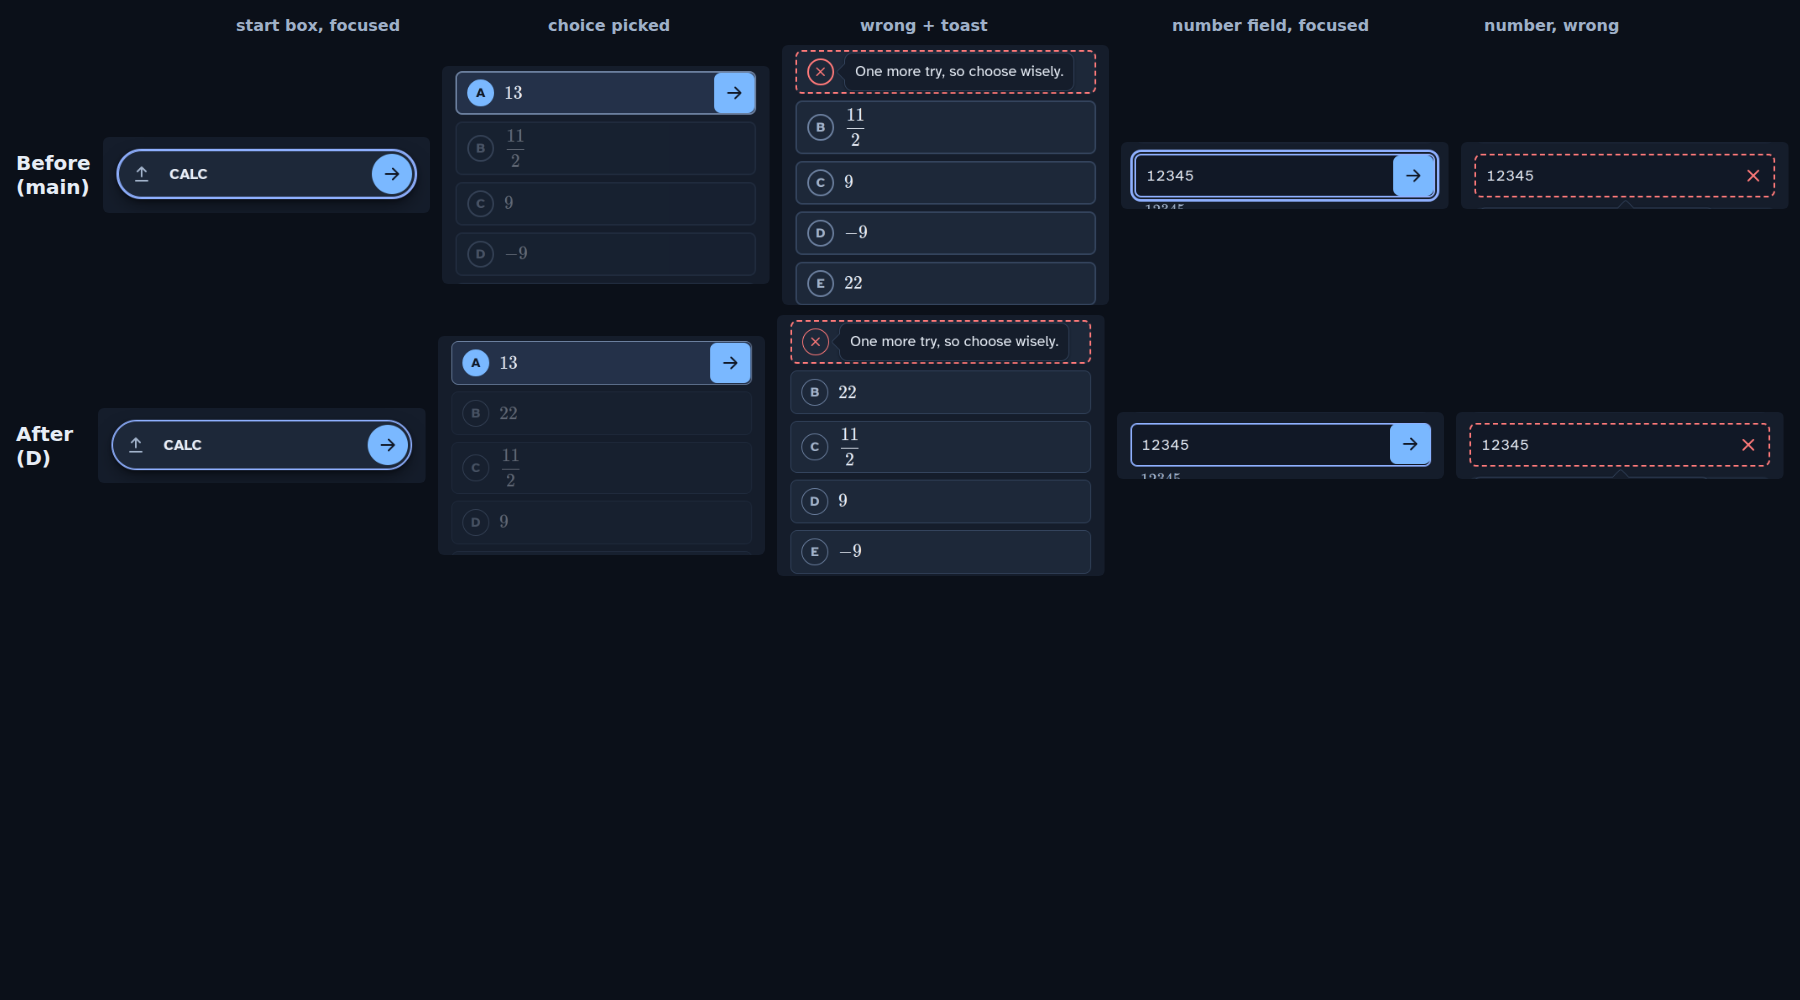
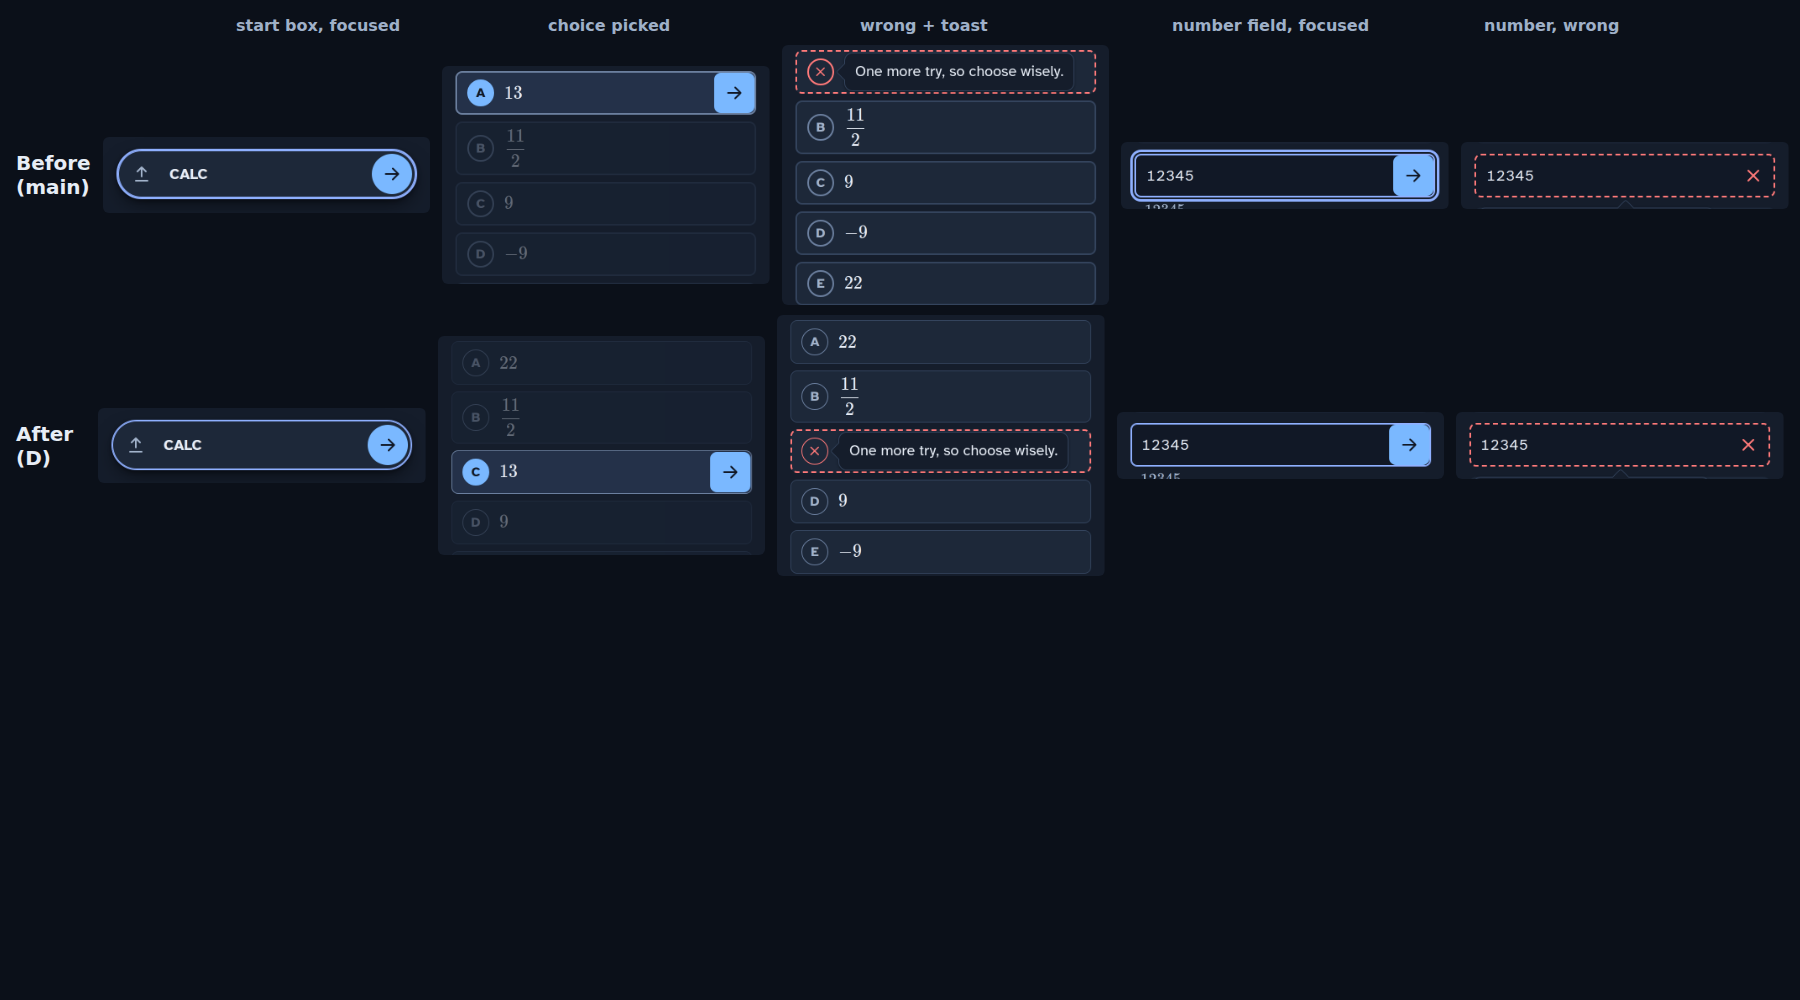
Borders: a wrong border never moves what is inside
The 2px wrong edge pushed the verdict x and the input 1px. --bw-up
(alarm minus base) comes back out of padding and the arrow / x offsets.
polish.pw: focused scratchpad now expects the 2px edge (border + inset).
Full run-all.sh: ALL GREEN.

Claude-Session: https://claude.ai/code/session_0133SdcyKFzp2WnequjmrzHe

Changed region(s): [[0.2489, 0.31, 0.5911, 0.496]]

diff --git a/app.css b/app.css
@@ -16,6 +16,7 @@
   --gut: max(1.25rem, env(safe-area-inset-left), env(safe-area-inset-right));
   /* size tokens: button, the fields that hold one (button + 2 x 2px border), its icon, the column. Desktop raises them (see the end of this file) */
   --bw: 1px; --bw-alarm: 2px; --ring: 2px;   /* borders (STYLE.md 2.6): one line weight; only a wrong answer is heavier; one keyboard ring */
+  --bw-up: calc(var(--bw-alarm) - var(--bw));   /* what a wrong border adds: taken back from the padding / offsets, so nothing inside moves */
   --btn: 48px; --fld: calc(var(--btn) + 4px); --ico: 24px; --col: 52rem;
   /* elevation: two-part shadow, tighter part fades as the layer rises (Refactoring UI, "Creating depth") */
   --shadow-1: 0 1px 2px rgb(0 0 0 / 0.45);
@@ -256,7 +257,7 @@ main { max-width: var(--col); margin: 0 auto; padding: var(--s5) var(--gut) var(
 html:has(.q:not(.closed) .choices:not(.all) .opt[aria-checked="true"]) :is(#work, #fb) { filter: brightness(.55); }
 html:has(.q:not(.closed) .choices:not(.all) .opt[aria-checked="true"]) :is(#dock, #more) { visibility: hidden; }
 .ch, .top, #problem, #work, #fb { transition: opacity .25s ease-out, filter .3s ease-out; }
-.opt.wrong { border: var(--bw-alarm) dashed var(--bad); color: var(--muted); }
+.opt.wrong { border: var(--bw-alarm) dashed var(--bad); color: var(--muted); padding: calc(var(--s2) - var(--bw-up)) calc(var(--btn) + 8px - var(--bw-up)) calc(var(--s2) - var(--bw-up)) calc(var(--s3) - var(--bw-up)); }
 .opt.wrong .txt { text-decoration: line-through; text-decoration-color: var(--bad); text-decoration-thickness: 2px; }
 .opt.wrong .badge { border-color: var(--bad); color: var(--bad); }
 .opt.right { border-color: var(--ok); background: var(--raised); }
@@ -292,7 +293,7 @@ html:has(.q:not(.closed) .choices:not(.all) .opt[aria-checked="true"]) :is(#dock
 .choices.inline .opt.right .badge { display: grid; position: absolute; right: 8px; top: 50%; margin-top: -1rem; background: none; border-color: transparent; color: var(--ok); }
 
 .ff {
-  position: relative; display: flex; align-items: center; height: var(--fld); padding-left: var(--s3); padding-right: var(--btn);   /* the arrow's room is always reserved */
+  position: relative; display: flex; align-items: center; height: var(--fld); padding-left: var(--s3); padding-right: calc(var(--btn) + var(--bw-up));   /* the arrow's room is always reserved (it sits --bw-up inside the border) */
   background: var(--field); border: var(--bw) solid var(--edge); border-radius: 8px;
 }
 .ff:hover { border-color: var(--muted); }
@@ -330,9 +331,9 @@ html:has(.q:not(.closed) .choices:not(.all) .opt[aria-checked="true"]) :is(#dock
 .mparts .mk { grid-area: mk; font-weight: 700; color: var(--c1); }
 .mparts .pr { grid-area: pr; min-width: 0; overflow-wrap: anywhere; }
 .mparts .ff { grid-area: bx; }
-.ff .send { position: absolute; right: 0; top: 0; }                    /* flush inside the border (48px in a 52px box with 2px borders): nothing jumps when it appears */
+.ff .send { position: absolute; right: var(--bw-up); top: var(--bw-up); }   /* 48px centred in the 52px box, 2px from the outer edge with either border: nothing jumps */
 /* the verdict icon in the arrow's slot (app.js vmark): right, wrong with a try left, out of tries */
-.ff .vk { position: absolute; right: 0; top: 0; width: var(--btn); height: var(--btn); display: grid; place-items: center; pointer-events: none; }
+.ff .vk { position: absolute; right: var(--bw-up); top: var(--bw-up); width: var(--btn); height: var(--btn); display: grid; place-items: center; pointer-events: none; }
 .ff .vk .ico { width: var(--ico); height: var(--ico); }
 .ff .vk[data-v="i-ok"] { color: var(--ok); }
 .ff .vk[data-v="i-x"] { color: var(--bad); }
@@ -346,7 +347,8 @@ html:has(.q:not(.closed) .choices:not(.all) .opt[aria-checked="true"]) :is(#dock
   .mparts .part.nopr.hinted { grid-template-areas: "mk bx bx" ". ht ht"; }
   .mparts .mk, .mparts .pr { padding-top: var(--s3); }   /* first text line centred on the 52px box */
 }
-.ff.bad { border: var(--bw-alarm) dashed var(--bad); }
+.ff.bad { border: var(--bw-alarm) dashed var(--bad); padding-left: calc(var(--s3) - var(--bw-up)); padding-right: var(--btn); }
+.ff.bad :is(.send, .vk) { right: 0; top: 0; }
 /* one part closed (right, or out of tries) while the others stay live: the same disabled look as a closed question (.q.closed) */
 .ff.shut, .ff.shut input { cursor: not-allowed; }
 .ff.shut { opacity: 0.5; }   /* right ones too: closed = looks disabled */

diff --git a/design/STYLE.md b/design/STYLE.md
@@ -120,6 +120,7 @@ One weight, one focus rule, one ring (Tony, Oct 3: "too thicc overall and dispar
 | Toast | 1.5px `--line`: the one listed exception (Tony: "slight thicker") |
 
 - Never a border and an outline on the same focus. Never 3px. Guarded by `tests/style.test.mjs` §2.6.
+- A wrong border adds `--bw-up` (1px). The box takes it back from its padding and the arrow / verdict offsets, so the text and the ✕ never move (render.pw: "the x is where the arrow was", "nothing moved").
 - Surfaces have no border. A background change separates them.
 - Dividers: 1px `--line` (part rows, table rows, the stuck strip's bottom). The toast's edge is the one 1.5px `--line` border.
 - No colored side stripes on anything.
